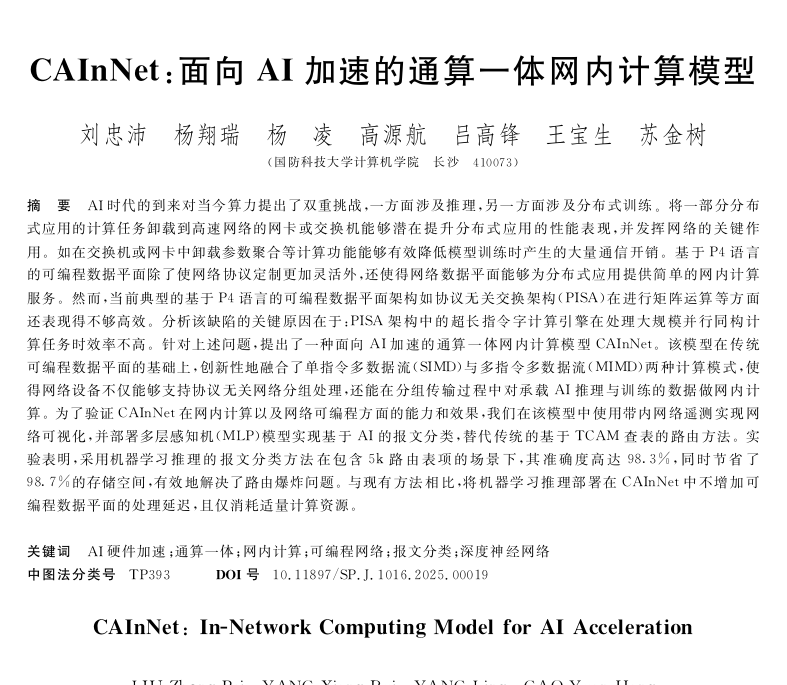
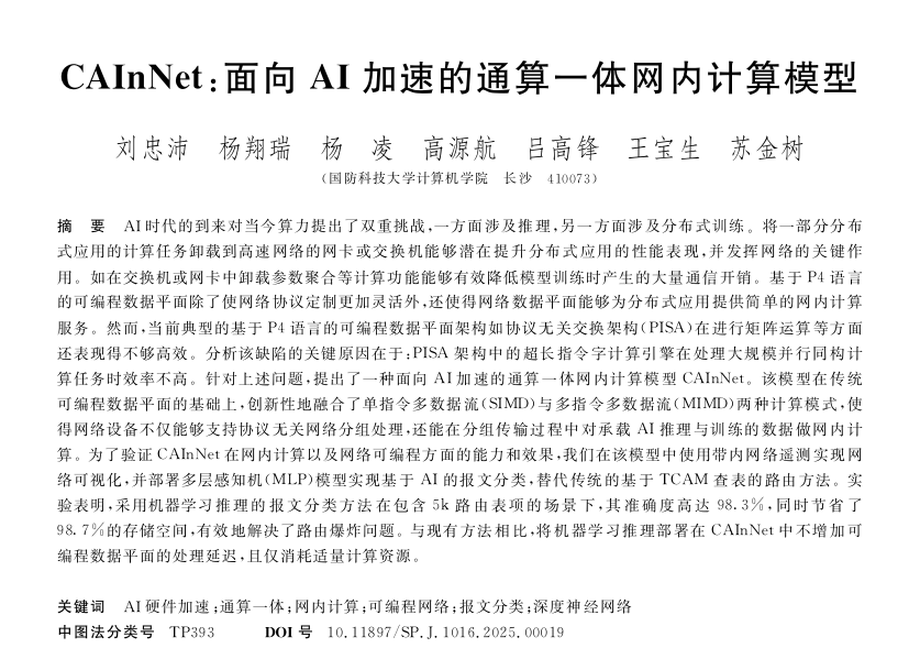
Polish homepage and publication presentation

diff --git a/_sass/_base.scss b/_sass/_base.scss
@@ -258,6 +258,37 @@ ul.task-list input[type="checkbox"] {
   }
 }
 
+.about-links {
+  display: flex;
+  flex-wrap: wrap;
+  gap: 0.6rem;
+  margin: 1.35rem 0 1.5rem;
+}
+
+.about-chip {
+  align-items: center;
+  background-color: var(--global-card-bg-color);
+  border: 1px solid var(--global-divider-color);
+  border-radius: 999px;
+  color: var(--global-text-color) !important;
+  display: inline-flex;
+  font-size: 0.88rem;
+  gap: 0.4rem;
+  padding: 0.35rem 0.75rem;
+  transition: border-color 0.2s ease, color 0.2s ease, transform 0.2s ease;
+
+  &:hover {
+    border-color: var(--global-theme-color);
+    color: var(--global-theme-color) !important;
+    text-decoration: none;
+    transform: translateY(-1px);
+  }
+
+  i {
+    color: var(--global-theme-color);
+  }
+}
+
 @media (min-width: 576px) {
   .profile {
     width: 25%;
@@ -455,23 +486,29 @@ ul.task-list input[type="checkbox"] {
   text-align: center;
 
   .contact-icons {
-    font-size: 4rem;
+    align-items: center;
+    display: flex;
+    flex-wrap: wrap;
+    font-size: 2rem;
+    gap: 0.85rem;
+    justify-content: center;
+    margin: 1.25rem auto 0.5rem;
 
     a {
       img {
-        width: 3.2rem;
-        height: 3.2rem;
-        margin-bottom: 1rem;
+        width: 1.8rem;
+        height: 1.8rem;
+        margin-bottom: 0;
       }
 
       svg {
-        width: 3.5rem;
-        height: 4rem;
-        margin-bottom: 0.5rem;
+        width: 2rem;
+        height: 2.2rem;
+        margin-bottom: 0;
 
         image {
-          width: 3.5rem;
-          height: 3.5rem;
+          width: 2rem;
+          height: 2rem;
         }
       }
 
@@ -822,6 +859,19 @@ footer.sticky-bottom {
           }
         }
 
+        .ccf-badge {
+          display: inline-block;
+          margin: 0 0.35rem 0.5rem 0;
+          padding: 0.25rem 0.55rem;
+          border: 1px solid var(--global-theme-color);
+          border-radius: 999px;
+          color: var(--global-theme-color);
+          font-size: 0.75rem;
+          font-weight: 700;
+          letter-spacing: 0.02em;
+          line-height: 1.2;
+        }
+
         .award {
           color: var(--global-theme-color) !important;
           border: 1px solid var(--global-theme-color);
@@ -845,6 +895,7 @@ footer.sticky-bottom {
         > em {
           border-bottom: 1px solid;
           font-style: normal;
+          font-weight: 700;
         }
 
         > span.more-authors {

diff --git a/_pages/about.md b/_pages/about.md
@@ -21,10 +21,18 @@ latest_posts:
   enabled: false
 ---
 
-Yuanhang Gao is a PhD candidate at the National University of Defense Technology (NUDT), working with Prof. Xiangrui Yang under the supervision of Prof. Dongsheng Li. He received his master's degree from NUDT in June 2025.
+Yuanhang Gao (高源航) is a PhD candidate at the National University of Defense Technology (NUDT), advised by Prof. Xiangrui Yang and Prof. Dongsheng Li. He received his master's degree from NUDT in June 2025.
 
 His research lies at the intersection of systems and artificial intelligence. He focuses on designing efficient and scalable systems for modern AI workloads, particularly large language model (LLM) inference. His research interests include LLM serving, KV cache optimization, memory-efficient inference, and distributed AI systems.
 
 His goal is to develop system abstractions and architectures that enable AI models to run faster, more efficiently, and at larger scale. His work explores how principles from computer systems, architecture, and networking can be leveraged to address emerging challenges in AI infrastructure.
+
+<div class="about-links">
+  <span class="about-chip">🚀 Systems for AI</span>
+  <span class="about-chip">🧠 LLM inference</span>
+  <a class="about-chip" href="https://github.com/gaoyh20" target="_blank" rel="noopener">
+    <i class="fa-brands fa-github"></i> GitHub
+  </a>
+</div>
 
 To learn more about his research, please visit the [publications](/publications/) page.

diff --git a/_news/announcement_1.md b/_news/announcement_1.md
@@ -5,4 +5,4 @@ inline: true
 related_posts: false
 ---
 
-Our paper "Magneto: Load-Balanced Key-Value Service for Write-Intensive Workloads" was accepted by IEEE Transactions on Services Computing (TSC).
+A paper was accepted by IEEE Transactions on Services Computing (TSC).
